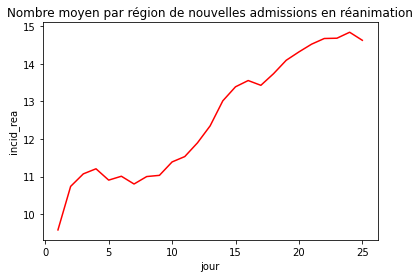
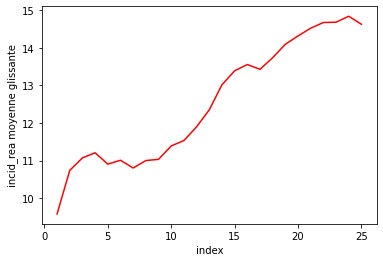
updates

Changed region(s): [[0.0, 0.0, 1.0, 0.9771]]

diff --git a/questions.py b/questions.py
@@ -117,8 +117,20 @@ print("nb d'hommes décédés: " + str(sommeh) + " ; nb de femmes décédés: " 
 #Afficher un graphique du nombre moyen par région de nouvelles admissions en réanimation pendant le mois de Janvier 2021.
 stat=st.Statistique()
 x=data1.fenetrage_numpy('incid_rea','numReg',date_debut="2021-01-01",date_fin="2021-01-31")
+gliss2 = np.asarray(stat.moyenne_glissante_tableau(x, 7))
 x=stat.moyenne_colonne(x)
-
 graph = gr.Graphique(range(1,32),x, "jour", "incid_rea", "Nombre moyen par région de nouvelles admissions en réanimation")
 graph.affichage_graphique()
+
+moyennes_gliss = stat.moyenne_colonne(gliss2)
+graph2 = gr.Graphique(range(1,26),moyennes_gliss, "index", "incid_rea moyenne glissante", "")
+graph2.affichage_graphique()
+
+
+
+
+
+
+
+
 
